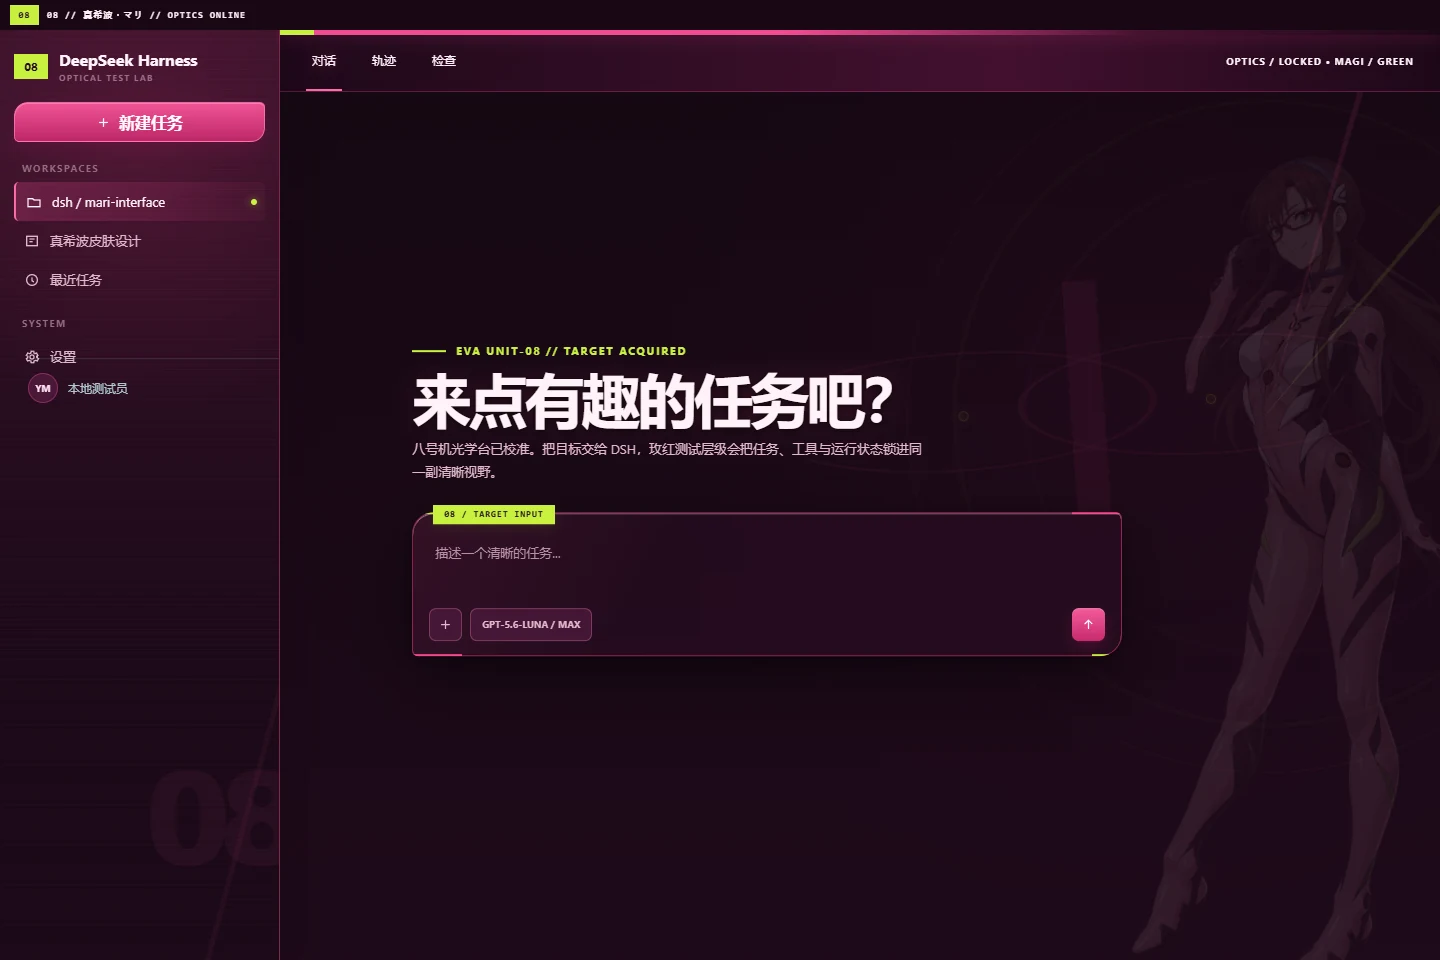
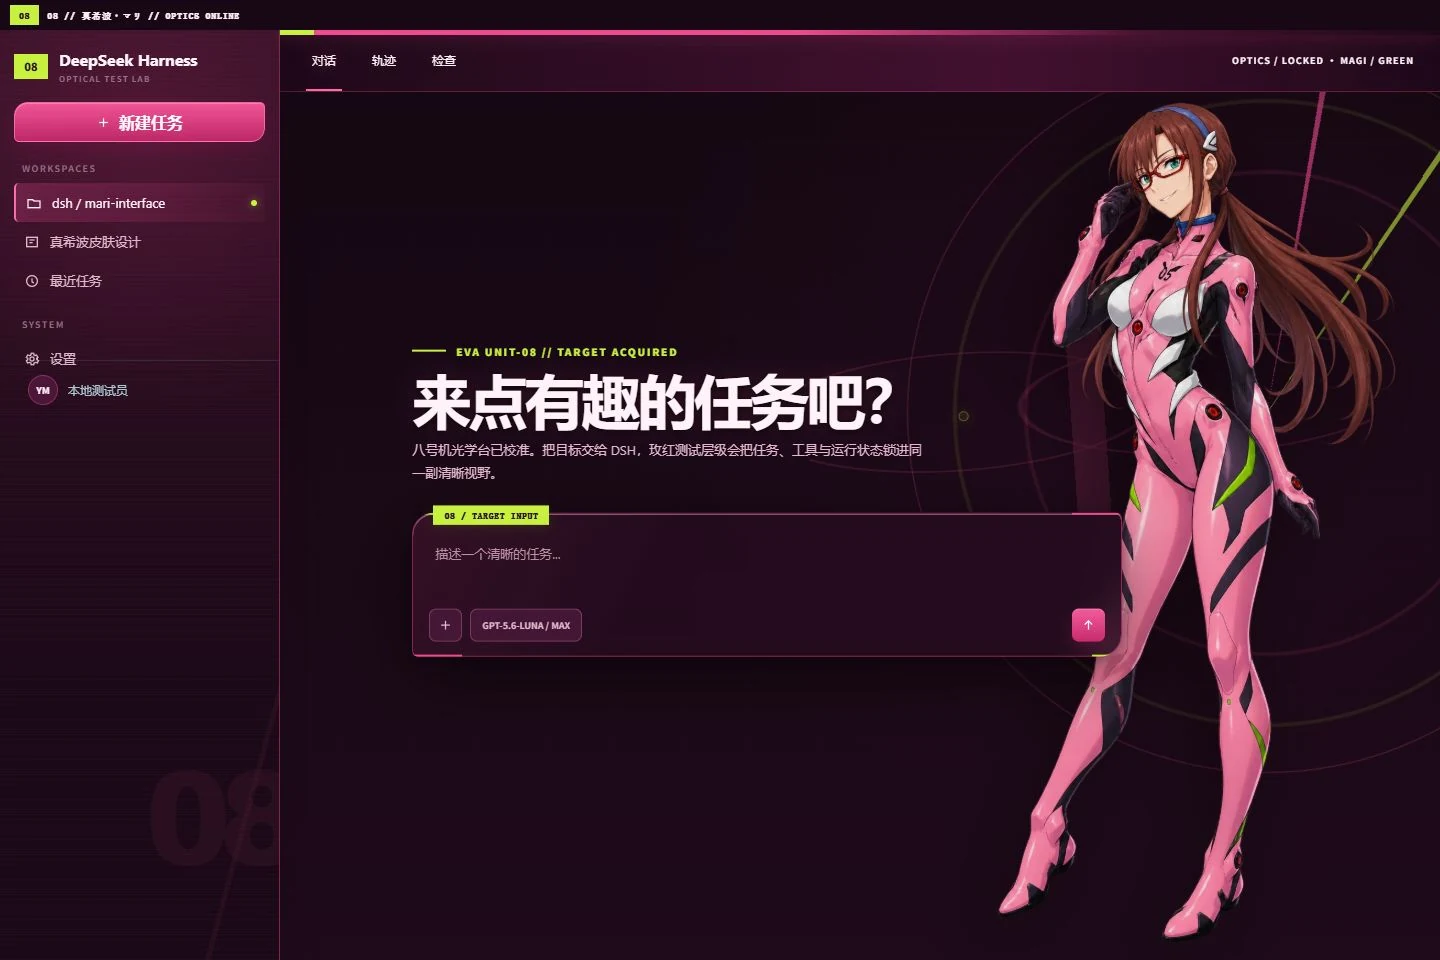
Fix Mari artwork framing

diff --git a/preview/preview.html b/preview/preview.html
@@ -113,7 +113,7 @@
             <div data-composer-card><span class="placeholder">描述一个清晰的任务...</span><div class="toolbar"><div class="tools"><button class="toolButton"><svg viewBox="0 0 24 24" fill="none" stroke="currentColor" stroke-width="2"><path d="M12 5v14M5 12h14"/></svg></button><span class="model">GPT-5.6-LUNA / MAX</span></div><button class="sendButton primary"><svg viewBox="0 0 24 24" fill="none" stroke="currentColor" stroke-width="2"><path d="M12 19V5m-6 6 6-6 6 6"/></svg></button></div></div>
           </div>
         </section>
-        <section class="activeScene" data-phase="active" data-chat-flow>
+        <section class="activeScene" data-phase="active">
           <div class="messageRow userRow"><div class="bubble">帮我检查这个光学主题的切换和清理逻辑。</div></div>
           <div class="messageRow assistantRow"><div class="assistantContent"><strong>校准完成。</strong><p>激活过程由皮肤管理器统一接管，注册阶段保持惰性。切换回默认皮肤时，主题节点、系统颜色、标题和 favicon 都会恢复。</p><div class="reasoning">正在核对观察器、动画帧与侧栏尺寸监听的回收顺序……</div><div data-terminal>$ node tests/apply.spec.ts<br><span style="color:#c8f13f">✓ 6 tests passed</span><br>optical lifecycle: clean</div></div></div>
           <div class="activeComposer" data-composer-card><span class="placeholder">继续对话...</span><div class="toolbar"><span class="model">UNIT-08 / ACTIVE</span><button class="sendButton primary" disabled><svg viewBox="0 0 24 24" fill="none" stroke="currentColor" stroke-width="2"><path d="M12 19V5m-6 6 6-6 6 6"/></svg></button></div></div>
@@ -127,7 +127,9 @@
     import { SKIN_ART } from '../shared/art.js'
     const query = new URLSearchParams(location.search)
     if (query.get('theme') === 'dark') document.body.dataset.dsDarkTheme = ''
-    document.body.classList.add(`scene-${query.get('scene') || 'hero'}`)
+    const scene = query.get('scene') || 'hero'
+    document.body.classList.add(`scene-${scene}`)
+    if (scene === 'active') document.querySelector('.activeScene').dataset.chatFlow = ''
     document.querySelector('[data-preview-art]').src = SKIN_ART
     let cleanup
     activateSkin({ effect(factory) { cleanup = factory() } })

diff --git a/lib/client.js b/lib/client.js
@@ -131,10 +131,12 @@ body[data-dsh-mari-interface] [data-skin-chrome='mari-artwork-stage'] {
 
 body[data-dsh-mari-interface] [data-skin-artwork] {
   position: absolute;
-  right: clamp(-44px, 1.5vw, 34px);
-  bottom: -2.5vh;
+  right: clamp(18px, 2vw, 36px);
+  bottom: clamp(12px, 1.6vh, 20px);
   width: auto;
-  height: min(93vh, 1050px);
+  height: min(88vh, 920px);
+  max-width: calc(100vw - var(--mari-sidebar-width) - 24px);
+  object-fit: contain;
   opacity: 0.95;
   filter: drop-shadow(-20px 22px 34px rgba(48, 8, 34, 0.31));
   transform-origin: right bottom;
@@ -539,8 +541,9 @@ body[data-dsh-mari-interface] ::-webkit-scrollbar-thumb {
 
 @media (max-width: 1180px) {
   body[data-dsh-mari-interface] [data-skin-artwork] {
-    right: -150px;
-    height: 84vh;
+    right: clamp(12px, 2vw, 24px);
+    bottom: 12px;
+    height: 82vh;
     opacity: 0.58;
   }
   body[data-dsh-mari-interface] [data-skin-orbit] { right: 36px; width: 580px; }
@@ -558,8 +561,8 @@ body[data-dsh-mari-interface] ::-webkit-scrollbar-thumb {
 
 @media (max-width: 620px) {
   body[data-dsh-mari-interface] [data-skin-artwork] {
-    right: -220px;
-    height: 72vh;
+    right: 8px;
+    height: 68vh;
     opacity: 0.055;
   }
   body[data-dsh-mari-interface] [data-skin-chrome='mari-accent-rail'] { left: 0; }

diff --git a/shared/theme-css.js b/shared/theme-css.js
@@ -112,10 +112,12 @@ body[data-dsh-mari-interface] [data-skin-chrome='mari-artwork-stage'] {
 
 body[data-dsh-mari-interface] [data-skin-artwork] {
   position: absolute;
-  right: clamp(-44px, 1.5vw, 34px);
-  bottom: -2.5vh;
+  right: clamp(18px, 2vw, 36px);
+  bottom: clamp(12px, 1.6vh, 20px);
   width: auto;
-  height: min(93vh, 1050px);
+  height: min(88vh, 920px);
+  max-width: calc(100vw - var(--mari-sidebar-width) - 24px);
+  object-fit: contain;
   opacity: 0.95;
   filter: drop-shadow(-20px 22px 34px rgba(48, 8, 34, 0.31));
   transform-origin: right bottom;
@@ -520,8 +522,9 @@ body[data-dsh-mari-interface] ::-webkit-scrollbar-thumb {
 
 @media (max-width: 1180px) {
   body[data-dsh-mari-interface] [data-skin-artwork] {
-    right: -150px;
-    height: 84vh;
+    right: clamp(12px, 2vw, 24px);
+    bottom: 12px;
+    height: 82vh;
     opacity: 0.58;
   }
   body[data-dsh-mari-interface] [data-skin-orbit] { right: 36px; width: 580px; }
@@ -539,8 +542,8 @@ body[data-dsh-mari-interface] ::-webkit-scrollbar-thumb {
 
 @media (max-width: 620px) {
   body[data-dsh-mari-interface] [data-skin-artwork] {
-    right: -220px;
-    height: 72vh;
+    right: 8px;
+    height: 68vh;
     opacity: 0.055;
   }
   body[data-dsh-mari-interface] [data-skin-chrome='mari-accent-rail'] { left: 0; }

diff --git a/tests/apply.spec.ts b/tests/apply.spec.ts
@@ -136,4 +136,11 @@ describe('真希波 · UNIT-08 interface skin', () => {
     expect(SKIN_CSS).toContain('@media (max-width: 620px)')
     expect(SKIN_CSS).toContain('@media (prefers-reduced-motion: reduce)')
   })
+
+  it('keeps the full-height hero artwork inside the viewport', () => {
+    expect(SKIN_CSS).toContain('right: clamp(18px, 2vw, 36px);')
+    expect(SKIN_CSS).toContain('bottom: clamp(12px, 1.6vh, 20px);')
+    expect(SKIN_CSS).toContain('height: min(88vh, 920px);')
+    expect(SKIN_CSS).toContain('max-width: calc(100vw - var(--mari-sidebar-width) - 24px);')
+  })
 })
